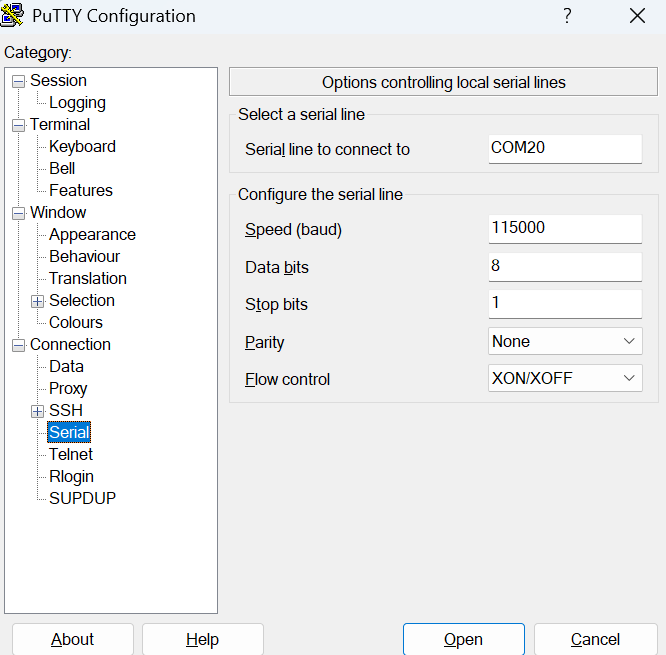
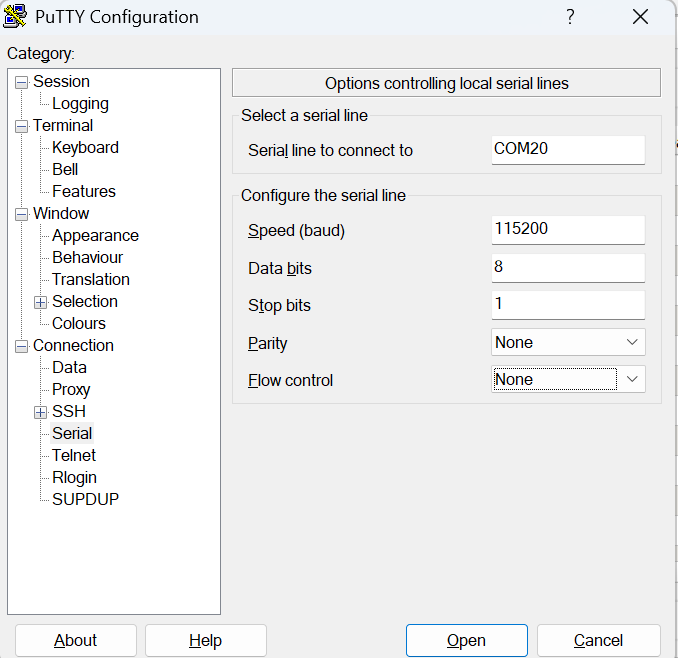
readme update

diff --git a/README.md b/README.md
@@ -20,6 +20,10 @@ The board can also operate as a standalone device when powered through its USB c
 ### A HAT for Raspberry Pi?
 HAT stands for *Hardware Attached on Top*. It is a type of add-on board specifically designed to sit on top of a Raspberry Pi and connect directly to its 40-pin GPIO header. HATs follow certain standards so they fit neatly, communicate properly, and are powered safely from the Pi.
 
+#### Robust Mechanical Design
+
+Four dedicated mounting holes provide a secure and rigid connection between the Raspberry Pi and the add-on board.
+
 ### Can I buy it?
 
 #### Produce yourself
@@ -38,7 +42,7 @@ Different versions of the mosaic-G5 are available to suit various applications, 
 | Features     | [mosaic-G5 P1](https://www.septentrio.com/en/products/gnss-receivers/gnss-receiver-modules/mosaic-g5-p1) | [mosaic-G5 P3](https://www.septentrio.com/en/products/gnss-receivers/gnss-receiver-modules/mosaic-G5-P3) | [mosaic-G5 P3H](https://www.septentrio.com/en/products/gnss-receivers/gnss-receiver-modules/mosaic-G5-P3H) |[mosaic-G5 P6](https://www.septentrio.com/en/products/gnss-receivers/gnss-receiver-modules/mosaic-G5-P6) | [mosaic-G5 P8](https://www.septentrio.com/en/products/gnss-receivers/gnss-receiver-modules/mosaic-g5-p8) |
 |--------------|--------------|--------------|---------------|---------------|---------------|
 | Functionality|High-precision positioning   |High-precision positioning |Positioning + Heading|Positioning + Heading | Positioning + Heading|
-| Use case     |Robotics (e.g robotic mowers), GIS devices |UAV, Commercial mowers, Industrial Robotics, Survey, Marine navigation | Autonomous vehicles, Marine navigation, Machine control, Survey | High-end autonomous systems, Robotics, Marine navigation, Survey, Machine control |            
+| Use case     |Robotics (e.g robotic mowers), GIS devices |UAV, Commercial mowers, Industrial Robotics, Survey, Marine navigation | Autonomous vehicles, Marine navigation, Machine control, Survey | High-end autonomous systems, Robotics, Marine navigation, Survey, Machine control | High-end autonomous systems, Robotics, Marine navigation, Survey, Machine control |          
 | GNSS bands   | Triple-band  | Quad-band    | Quad-band     |Quad-band |Quad-band  |
 | RTK support  | Yes          | Yes          | Yes           |Yes       |Yes        |
 | Dual antenna |    No        |  No          | Yes           |Yes       |Yes        |
@@ -117,8 +121,9 @@ The board exposes the following interfaces:
 
 ### Connecting to Raspberry Pi
 mosaicG5 HAT can be easily attached to Raspberry Pi as shown here:
-<img src="pictures/RPi1.jpg" width="80%">
-<img src="pictures/RPi2.jpg" width="80%">
+
+<img src="pictures/RPi1.jpg" width="60%">
+<img src="pictures/RPi2.jpg" width="60%">
 
 #### Preparing Raspberry Pi
 To enable communication between mosaicG5 HAT and Raspberry Pi (RPi), you should make sure required serial communication settings are configured.
@@ -162,12 +167,9 @@ In order to benefit from the multiple signals and constellations that the mosaic
 
 There are also different antenna types each suitable for different applications (e.g. robotics, larger machines, etc).Generally, the larger the antenna the better performance you might get, however it is not all about size but also the quality of the antenna elements.
 
-For testing the board we used Tallysman antenna 
-You can purchase it at:
+For testing the board we used Tallysman antenna:
 
-
-
-|antenna  |[link]()   |
+<img src="/pictures/antenna.jpg" width="50%">
 
 Note: The VANT (Antenna voltage) pad of mosaic module is directly connected to the external +5V pin. The internal bias control circuit detects overcurrent
 conditions (>150mA) and protects the module in case of short circuit. According to mosaic hardware manual, VANT accepts 3V to 5.5V supply.
